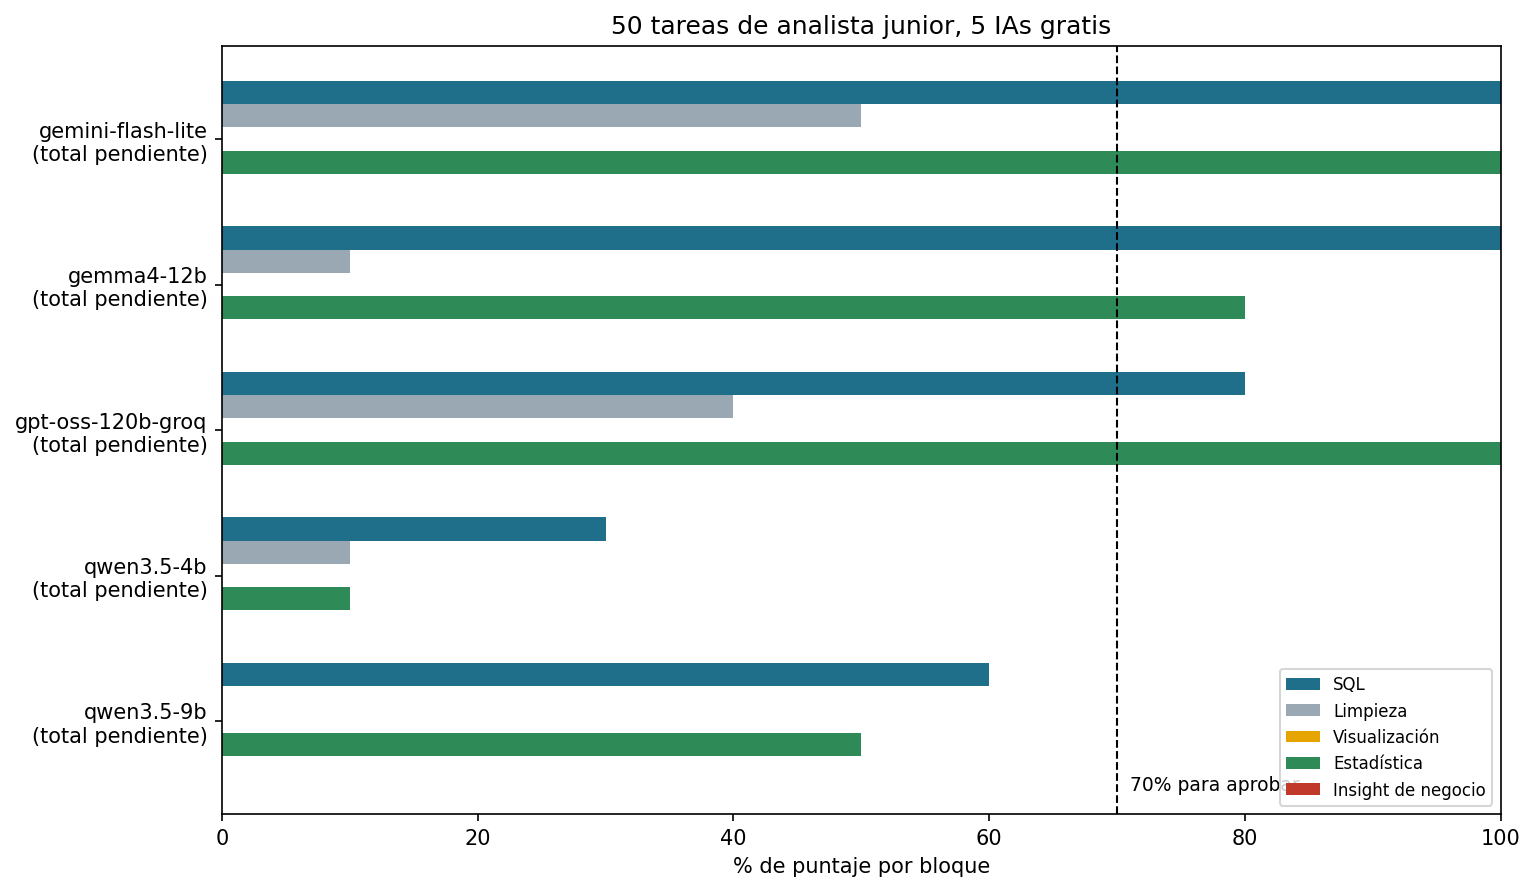
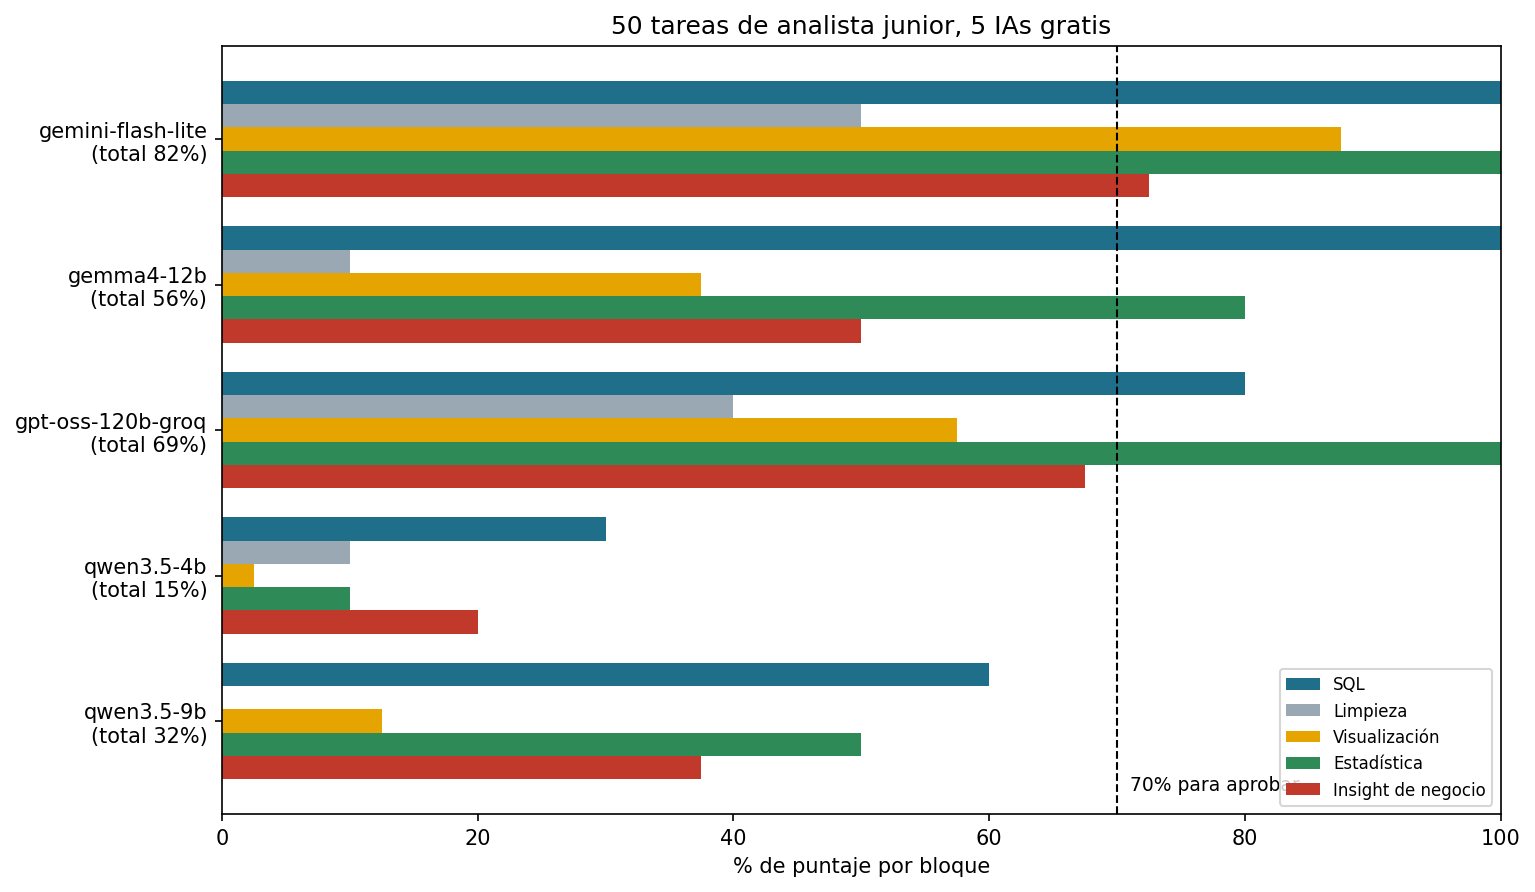
Corrección a ciegas de gráficos e insights (IA juez, declarado) y resultados finales
Claude-Session: https://claude.ai/code/session_013269HgrRn8mh8ynEu8Mkik

diff --git a/bench/cli.py b/bench/cli.py
@@ -14,7 +14,7 @@ ROOT = os.path.dirname(os.path.dirname(os.path.abspath(__file__)))
 DATA = os.path.join(ROOT, "data")
 RESULTS = os.path.join(ROOT, "results")
 EXPECTED = os.path.join(DATA, "expected.json")
-SCORES = os.path.join(RESULTS, "puntajes_humanos.json")
+SCORES = os.path.join(RESULTS, "puntajes.json")
 
 # Criterio de "aprobó el período de prueba". Fijado ANTES de correr cualquier modelo.
 APRUEBA_TOTAL = 0.70
@@ -311,7 +311,10 @@ def cmd_report(args):
     lines = ["# Resultados: analista junior vs. IA gratis", "",
              f"Criterio de aprobación (fijado antes de correr): total ≥ {APRUEBA_TOTAL:.0%} y ningún bloque "
              f"por debajo de {APRUEBA_MIN_BLOQUE:.0%}.", ""]
-    header = "| Modelo | " + " | ".join(BLOQUES) + " | Total | ¿Aprobó? | Tiempo total | Costo |"
+    corrector = load_json(SCORES, {}).get("_corrector")
+    if corrector:
+        lines += [f"Visualización e insight de negocio: {corrector}", ""]
+    header ="| Modelo | " + " | ".join(BLOQUES) + " | Total | ¿Aprobó? | Tiempo total | Costo |"
     lines += [header, "|" + "---|" * (len(BLOQUES) + 5)]
     summary = []
     pending_total = 0

diff --git a/README.md b/README.md
@@ -4,7 +4,15 @@
 
 ## Resultados
 
-_Pendiente: se completa con `python bench.py report` (ver `results/reporte.md`)._
+| Modelo | Dónde corre | SQL | Limpieza | Visualización | Estadística | Insight | Total | ¿Aprobó? |
+|---|---|---|---|---|---|---|---|---|
+| Gemini 3.5 Flash-Lite | API gratis | 100% | 50% | 88% | 100% | 72% | **82%** | **Sí** |
+| gpt-oss-120b | API gratis (Groq) | 80% | 40% | 57% | 100% | 68% | 69% | No |
+| Gemma 4 12B | Notebook | 100% | 10% | 38% | 80% | 50% | 56% | No |
+| Qwen 3.5 9B | Notebook | 60% | 0% | 12% | 50% | 38% | 32% | No |
+| Qwen 3.5 4B | Notebook | 30% | 10% | 2% | 10% | 20% | 15% | No |
+
+Visualización e insight corregidos por IA a ciegas (ver abajo). Detalle de cada fallo en `results/reporte.md`.
 
 ## Qué evalúa
 
@@ -29,9 +37,11 @@ Fijado **antes** de correr cualquier modelo (ver `APRUEBA_TOTAL` en `bench/cli.p
 
 En los bloques humanos, un puntaje de 1 a 5 se convierte en 0% a 100%. Un gráfico cuyo código no corre vale 0.
 
-### Corrección humana a ciegas
+### Corrección a ciegas de gráficos e insights
 
 `python bench.py review` muestra las respuestas de gráficos e insights en orden aleatorio y **sin decir qué modelo las escribió**, junto con los puntos clave que tiene que tener una buena respuesta.
+
+**En esta corrida, esos dos bloques los corrigió una IA (Claude), no una persona.** Se hizo así a pedido del autor: las 83 respuestas se anonimizaron y mezclaron, se puntuaron con la rúbrica y los puntos clave de `bench/tasks.py` sin ver el modelo, y recién después se cruzaron con la tabla de correspondencias. Los puntajes están en `results/puntajes.json`. Si querés auditarlos o reemplazarlos por una corrección humana, borrá ese archivo y corré `bench.py review`.
 
 ## Modelos
 

diff --git a/results/reporte.md b/results/reporte.md
@@ -2,15 +2,15 @@
 
 Criterio de aprobación (fijado antes de correr): total ≥ 70% y ningún bloque por debajo de 50%.
 
+Visualización e insight de negocio: Claude (IA), a ciegas: respuestas anonimizadas y mezcladas, con la rúbrica y los puntos clave de bench/tasks.py, a pedido de Pablo. No es corrección humana.
+
 | Modelo | SQL | Limpieza | Visualización | Estadística | Insight de negocio | Total | ¿Aprobó? | Tiempo total | Costo |
 |---|---|---|---|---|---|---|---|---|---|
-| gemini-flash-lite | 100% | 50% | pendiente | 100% | pendiente | pendiente | pendiente | 3 min | USD 0 |
-| gemma4-12b | 100% | 10% | pendiente | 80% | pendiente | pendiente | pendiente | 33 min | USD 0 |
-| gpt-oss-120b-groq | 80% | 40% | pendiente | 100% | pendiente | pendiente | pendiente | 2 min | USD 0 |
-| qwen3.5-4b | 30% | 10% | pendiente | 10% | pendiente | pendiente | pendiente | 23 min | USD 0 |
-| qwen3.5-9b | 60% | 0% | pendiente | 50% | pendiente | pendiente | pendiente | 29 min | USD 0 |
-
-Faltan 83 correcciones humanas (o tareas sin correr). Corré `python bench.py review` para completarlas.
+| gemini-flash-lite | 100% | 50% | 88% | 100% | 72% | 82% | SÍ | 3 min | USD 0 |
+| gemma4-12b | 100% | 10% | 38% | 80% | 50% | 56% | NO | 33 min | USD 0 |
+| gpt-oss-120b-groq | 80% | 40% | 57% | 100% | 68% | 69% | NO | 2 min | USD 0 |
+| qwen3.5-4b | 30% | 10% | 2% | 10% | 20% | 15% | NO | 23 min | USD 0 |
+| qwen3.5-9b | 60% | 0% | 12% | 50% | 38% | 32% | NO | 29 min | USD 0 |
 
 ## Fallos de las tareas autocorregidas
 
